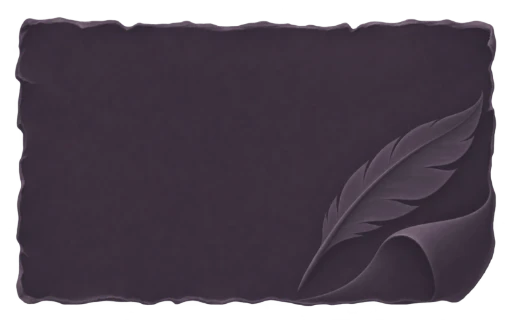
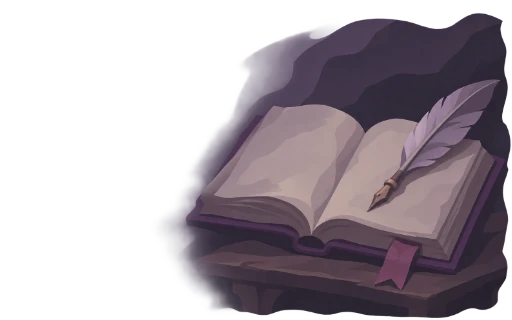
Объединить параметры магии с общим стилем и вынести флаги на отдельные строки

diff --git a/frontend/src/features/character-editor/blocks/dnd/components/SpellcastingParameters.vue b/frontend/src/features/character-editor/blocks/dnd/components/SpellcastingParameters.vue
@@ -1,18 +1,18 @@
 <template>
   <div class="spell-parameters">
     <div class="spell-parameters-grid" role="group" aria-label="Параметры вкладки магии">
-      <div class="spell-parameter spell-parameter--base">
+      <BaseTile :outlined="false" class="spell-parameter spell-parameter--base">
         <span class="spell-parameter-label">Базовая хар-ка</span>
         <strong class="spell-parameter-value spell-parameter-value--name">{{ statLabel || '—' }}</strong>
-      </div>
-      <div class="spell-parameter spell-parameter--attack" :title="attackFormula">
+      </BaseTile>
+      <BaseTile :outlined="false" class="spell-parameter spell-parameter--attack" :title="attackFormula">
         <span class="spell-parameter-label">Атака заклинанием</span>
         <strong class="spell-parameter-value">{{ attackBonus >= 0 ? '+' + attackBonus : attackBonus }}</strong>
-      </div>
-      <div class="spell-parameter spell-parameter--save" :title="saveFormula">
+      </BaseTile>
+      <BaseTile :outlined="false" class="spell-parameter spell-parameter--save" :title="saveFormula">
         <span class="spell-parameter-label">СЛ спасброска</span>
         <strong class="spell-parameter-value">{{ saveDC }}</strong>
-      </div>
+      </BaseTile>
       <div class="spell-parameter-settings-cell">
         <ActionButton class="spell-parameter-settings" variant="dashed" :disabled="!editable" @click="$emit('settings')">
           <template #icon><Settings class="spell-parameter-settings-icon" :size="layoutTokens['spell-settings-icon']" aria-hidden="true" /></template>
@@ -23,7 +23,7 @@
   </div>
 </template>
 <script setup>
-import { ActionButton } from '@sylvieshare/share-ui'
+import { ActionButton, BaseTile } from '@sylvieshare/share-ui'
 import { Settings } from '@lucide/vue'
 import { layoutTokens } from '@/app/design-tokens'
 defineProps({ statLabel:String,saveDC:Number,attackBonus:Number,saveFormula:String,attackFormula:String,editable:Boolean })
@@ -32,23 +32,22 @@ defineEmits(['settings'])
 <style scoped>
 .spell-parameters {min-width:0;container-type:inline-size}
 .spell-parameters-grid {display:grid;grid-template-columns:repeat(4,minmax(0,1fr));gap:var(--spacing-small);min-width:0}
-.spell-parameter {position:relative;isolation:isolate;min-width:0;min-height:var(--layout-spell-stat-tile-height);box-sizing:border-box;display:flex;flex-direction:column;justify-content:center;gap:var(--spacing-xs);padding:var(--spacing-medium) var(--spacing-large);color:var(--text-1)}
-.spell-parameter::before {content:'';position:absolute;inset:0;z-index:-1;background:var(--spell-parameter-art) center/100% 100% no-repeat;pointer-events:none}
+.spell-parameter {isolation:isolate;overflow:hidden;min-width:0;min-height:var(--layout-spell-stat-tile-height);display:flex;flex-direction:column;justify-content:center;gap:var(--spacing-xs);padding:var(--spacing-medium) var(--spacing-large);color:var(--text-1)}
+.spell-parameter::before {content:'';position:absolute;inset:0;z-index:-1;background:var(--spell-parameter-art) center/cover no-repeat;opacity:.6;filter:brightness(.62);mask-image:linear-gradient(90deg,transparent 0%,transparent 35%,var(--text-1) 100%);pointer-events:none}
 .spell-parameter--base {--spell-parameter-art:url('@/assets/ui/spell-stat-base.webp')}
 .spell-parameter--attack {--spell-parameter-art:url('@/assets/ui/spell-stat-attack.webp')}
 .spell-parameter--save {--spell-parameter-art:url('@/assets/ui/spell-stat-save.webp')}
 .spell-parameter-label {color:var(--text-2);font-family:var(--type-spell-parameter-label-family);font-size:var(--type-spell-parameter-label-size);line-height:var(--type-spell-parameter-label-line-height);font-weight:var(--type-spell-parameter-label-weight)}
 .spell-parameter-value {color:var(--text-1);font-family:var(--type-spell-parameter-value-family);font-size:var(--type-spell-parameter-value-size);line-height:var(--type-spell-parameter-value-line-height);font-weight:var(--type-spell-parameter-value-weight);font-variant-numeric:tabular-nums}
 .spell-parameter-value--name {font-family:var(--type-spell-parameter-name-family);font-size:var(--type-spell-parameter-name-size);line-height:var(--type-spell-parameter-name-line-height);font-weight:var(--type-spell-parameter-name-weight);overflow-wrap:anywhere}
-.spell-parameter-settings-cell {display:flex;min-width:0;padding:var(--spacing-compact)}
+.spell-parameter-settings-cell {display:flex;min-width:0}
 .spell-parameter-settings {flex:1;min-width:0}
 .spell-parameter-settings-icon {flex:none}
 .spell-parameter-settings-label {display:flex;flex-direction:column;align-items:flex-start;line-height:var(--type-group-line-height);text-align:left;white-space:nowrap}
-/* The painted plates have an intrinsic 512x320 canvas. */
+/* Keep the intrinsic 512x320 illustration proportions on phones. */
 @media (--ui-phone){.spell-parameter{min-height:0;aspect-ratio:8 / 5}}
 @container (max-width:560px){.spell-parameters-grid{grid-template-columns:repeat(2,minmax(0,1fr))}}
 @container (max-width:300px){
-  .spell-parameter-settings-cell{padding-inline:0}
   .spell-parameter-label{font-size:var(--type-context-size);line-height:var(--type-context-line-height)}
 }
 </style>

diff --git a/frontend/src/features/items/components/SpellMetadata.vue b/frontend/src/features/items/components/SpellMetadata.vue
@@ -5,8 +5,10 @@
         <span v-for="part in components" :key="part.key" tabindex="0" :aria-label="part.label" @mouseenter="show($event, part.label)" @mouseleave="tooltip = null" @focus="show($event, part.label)" @blur="tooltip = null"><component :is="part.icon" :size="16" aria-hidden="true" /></span>
       </span>
       <span v-if="rangeText" class="spell-meta-part" :title="rangeHint"><component :is="rangeIcon" :size="16" aria-hidden="true" />{{ rangeText }}<UserRound v-if="data.range?.can_self && data.range.kind !== 'self'" :size="14" aria-label="Можно на себя" /></span>
-      <span v-if="data.duration || flags.length" class="spell-duration-meta">
-        <span v-if="data.duration" class="spell-meta-part" :title="data.duration"><Hourglass :size="15" aria-hidden="true" />{{ spellDurationLabel(data.duration) }}</span>
+      <span v-if="data.duration" class="spell-duration-meta">
+        <span class="spell-meta-part" :title="data.duration"><Hourglass :size="15" aria-hidden="true" />{{ spellDurationLabel(data.duration) }}</span>
+      </span>
+      <span v-if="flags.length" class="spell-meta-flags">
         <span v-for="flag in flags" :key="flag.key" class="spell-meta-part spell-meta-flag" :class="`spell-meta-${flag.key}`" :aria-label="flag.label">{{ flag.label }}</span>
       </span>
     </div>
@@ -40,15 +42,14 @@ const show = (event, text) => { tooltip.value = { anchor: event.currentTarget, t
 .spell-meta-part > svg, .spell-components { flex-shrink: 0; }
 .spell-meta-part + .spell-meta-part { border-left: 1px solid var(--border); }
 .spell-components > span { display: inline-flex; }
-.spell-meta-flag { flex-shrink: 0; justify-content: center; font-weight: 800; background: color-mix(in srgb, currentColor 15%, transparent); }
-.spell-meta-flag:first-child { border-radius: 5px 0 0 5px; }
-.spell-meta-concentration { color: var(--accent-soft); }
-.spell-meta-ritual { color: var(--success); }
+.spell-meta-flags {display:flex;flex-direction:column;align-items:flex-start;flex-basis:100%;gap:var(--spacing-xs);min-width:0}
+.spell-meta-flags .spell-meta-flag {border:0;border-radius:var(--radius-xs);font-weight:700;background:color-mix(in srgb,var(--bg) 65%,transparent)}
+.spell-meta-concentration { color: color-mix(in srgb,var(--accent-soft) 85%,var(--text-1)); }
+.spell-meta-ritual { color: color-mix(in srgb,var(--success) 80%,var(--text-1)); }
 .spell-duration-meta {display:contents}
 .spell-metadata:not(.spell-metadata--quiet) .spell-meta-part + .spell-duration-meta>.spell-meta-part:first-child {border-left:1px solid var(--border)}
 .spell-metadata--quiet {gap:var(--spacing-small)}
 .spell-metadata--quiet .spell-meta-table {border:0;background:transparent;flex-wrap:wrap;gap:var(--spacing-xs)}
 .spell-metadata--quiet .spell-meta-part {padding:var(--spacing-xs) var(--spacing-compact);border:0;border-radius:var(--radius-xs);background:color-mix(in srgb,var(--bg) 65%,transparent)}
-.spell-metadata--quiet .spell-meta-flag {background:color-mix(in srgb,currentColor 15%,var(--bg));font-size:var(--type-context-size);font-weight:600}
 .spell-metadata--quiet .spell-duration-meta {display:flex;flex-wrap:wrap;align-items:center;gap:var(--spacing-xs);min-width:0;max-width:100%}
 </style>

diff --git a/frontend/tests/tutorials/spell-rolls.spec.js b/frontend/tests/tutorials/spell-rolls.spec.js
@@ -236,8 +236,10 @@ for (const mobile of [false, true]) test(`spell presentation ${mobile ? 'mobile'
   }
   await expect(light.locator('.spell-meta-part')).toHaveText(['Касание','1 час','Концентрация','Ритуал'])
   const flagsLayout=await light.locator('.spell-meta-part').evaluateAll(parts=>parts.map(part=>part.getBoundingClientRect().toJSON()))
-  expect(flagsLayout[2].left).toBeGreaterThanOrEqual(flagsLayout[1].right)
-  expect(flagsLayout[3].left).toBeGreaterThanOrEqual(flagsLayout[2].right)
+  expect(flagsLayout[2].top).toBeGreaterThanOrEqual(flagsLayout[1].bottom+3)
+  expect(flagsLayout[3].top).toBeGreaterThanOrEqual(flagsLayout[2].bottom+3)
+  expect(flagsLayout[2].left).toBeCloseTo(flagsLayout[0].left,1)
+  expect(flagsLayout[3].left).toBeCloseTo(flagsLayout[0].left,1)
   await expect(light.locator('.spell-meta-table .lucide-fingerprint-pattern')).toBeVisible()
   await light.getByLabel('Концентрация', { exact: true }).hover()
   await expect(page.getByText('Концентрация', { exact: true })).toBeVisible()

diff --git a/frontend/tests/tutorials/spell-card-cover.spec.js b/frontend/tests/tutorials/spell-card-cover.spec.js
@@ -15,7 +15,8 @@ for(const width of [390,834,1440])test(`quiet spell covers and component overlay
  await expect(custom.locator('.sp-school')).toHaveCount(0)
  await expect(custom.locator('.spell-components')).toHaveCount(0)
  await expect(custom.locator('.spell-component-letters')).toHaveText('ВСМ')
- await expect(custom.locator('.spell-duration-meta .spell-meta-part')).toHaveText(['вплоть до 1 минуты','Концентрация','Ритуал'])
+ await expect(custom.locator('.spell-duration-meta .spell-meta-part')).toHaveText(['вплоть до 1 минуты'])
+ await expect(custom.locator('.spell-meta-flags .spell-meta-part')).toHaveText(['Концентрация','Ритуал'])
  const badge=custom.getByRole('button',{name:'Компоненты заклинания: В, С, М',exact:true})
  await badge.click()
  const dialog=page.getByRole('dialog',{name:'Компоненты заклинания',exact:true})
